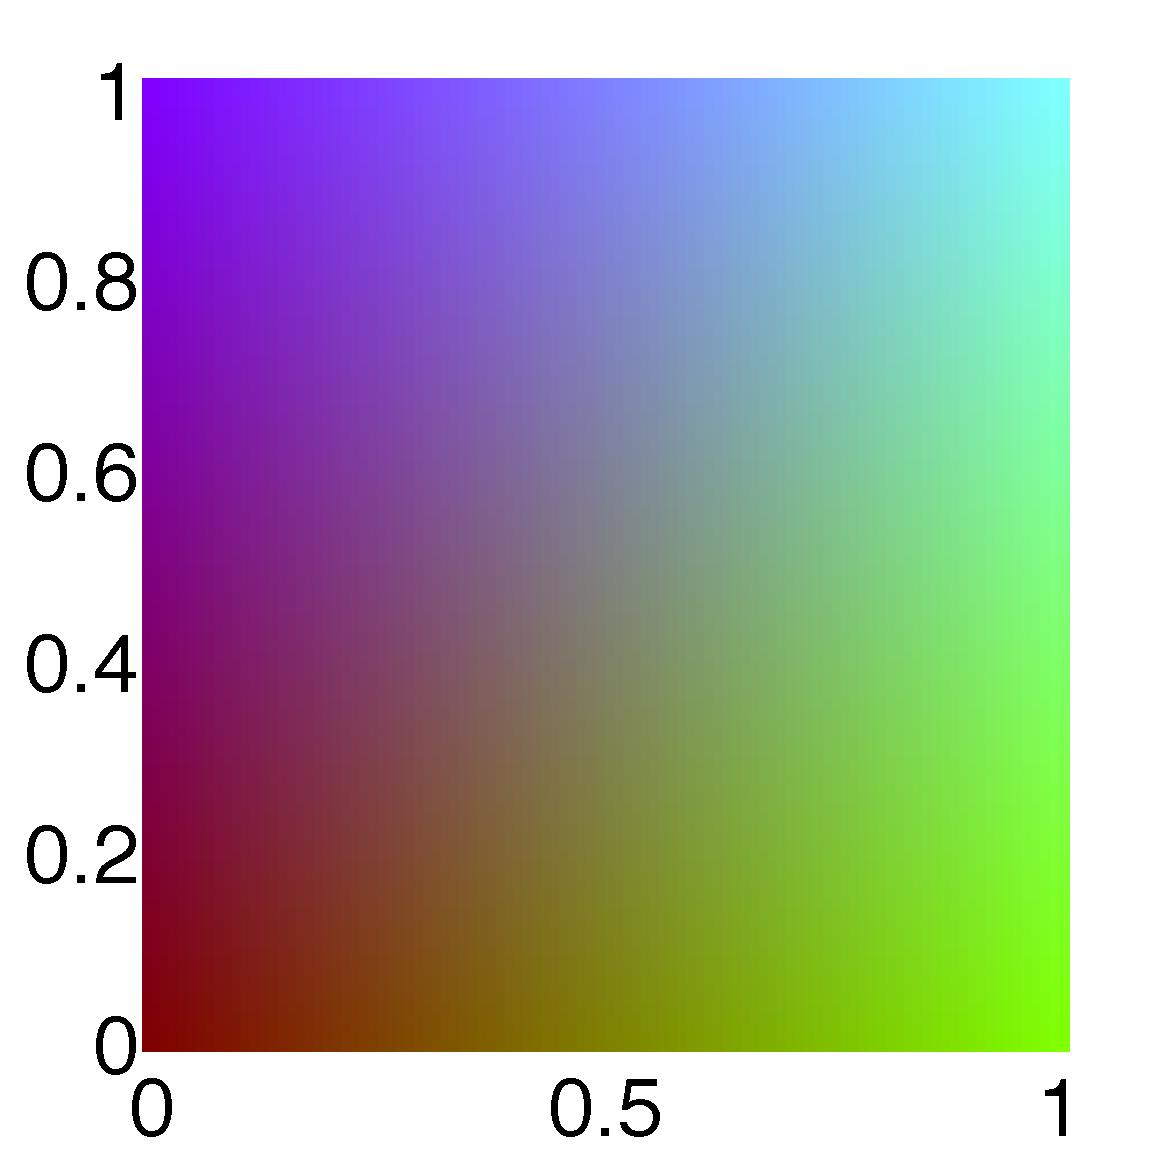
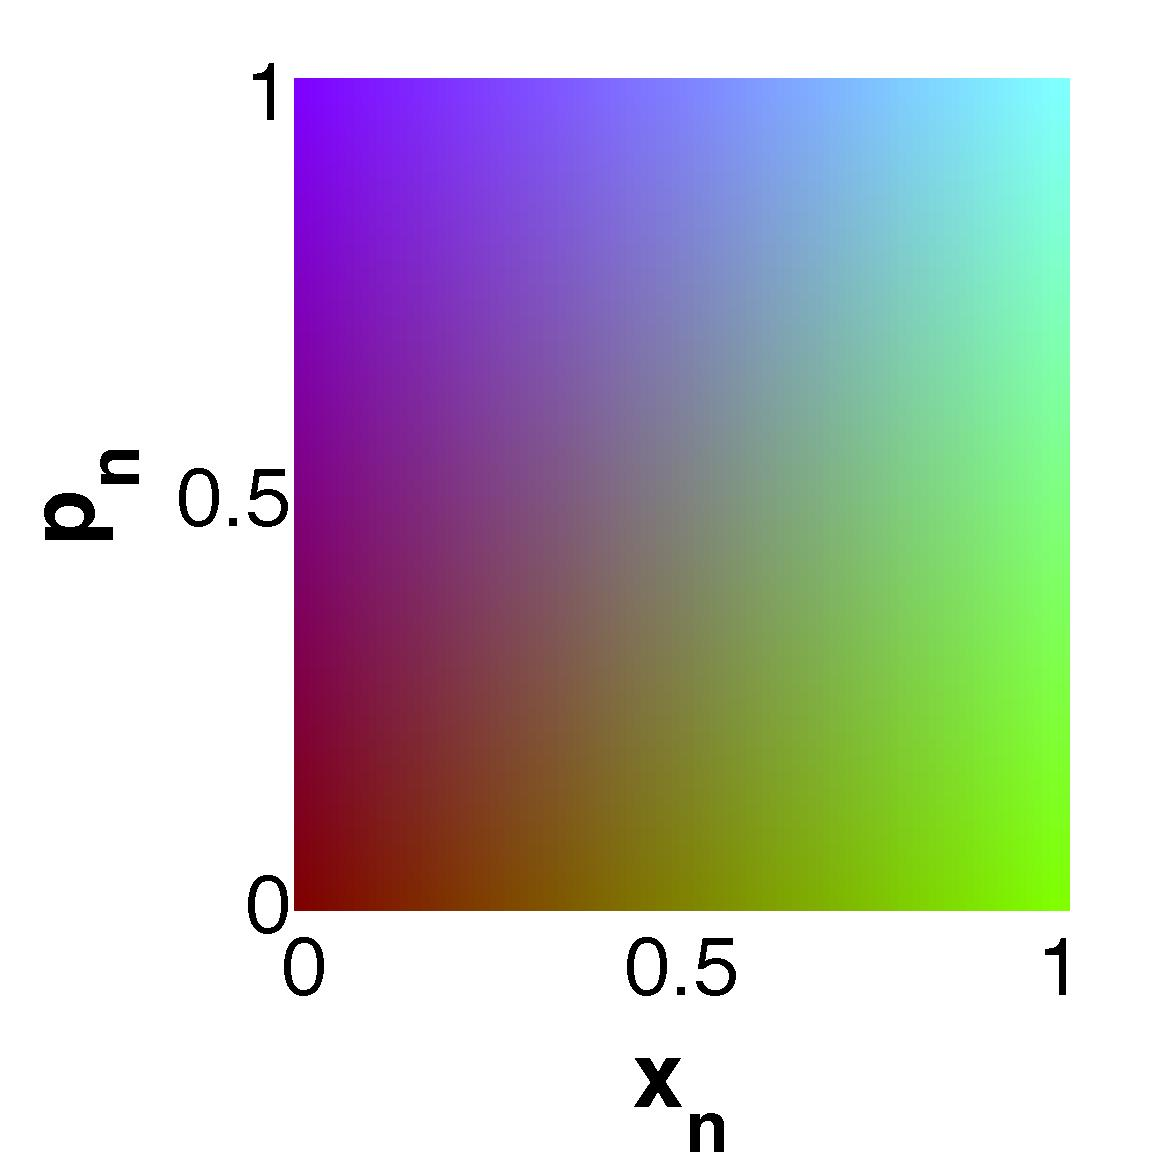
labels +1/2

diff --git a/Practica/Assignment 1/code/assignment_b_fancy_diff_k.m b/Practica/Assignment 1/code/assignment_b_fancy_diff_k.m
@@ -37,5 +37,8 @@ colors = [color_r, color_g, color_b];
 
 scatter(x(:), p(:), [], colors, 's', 'filled')
 
+xlabel('{x_n}');
+ylabel('{p_n}');
+
 high_quality_plot('Save', '../report/img/assignment_b_colormap', 'FontSize', 22, 'PaperWidth', 4, 'PaperHeight', 4, 'Margin', 0.05);
 
